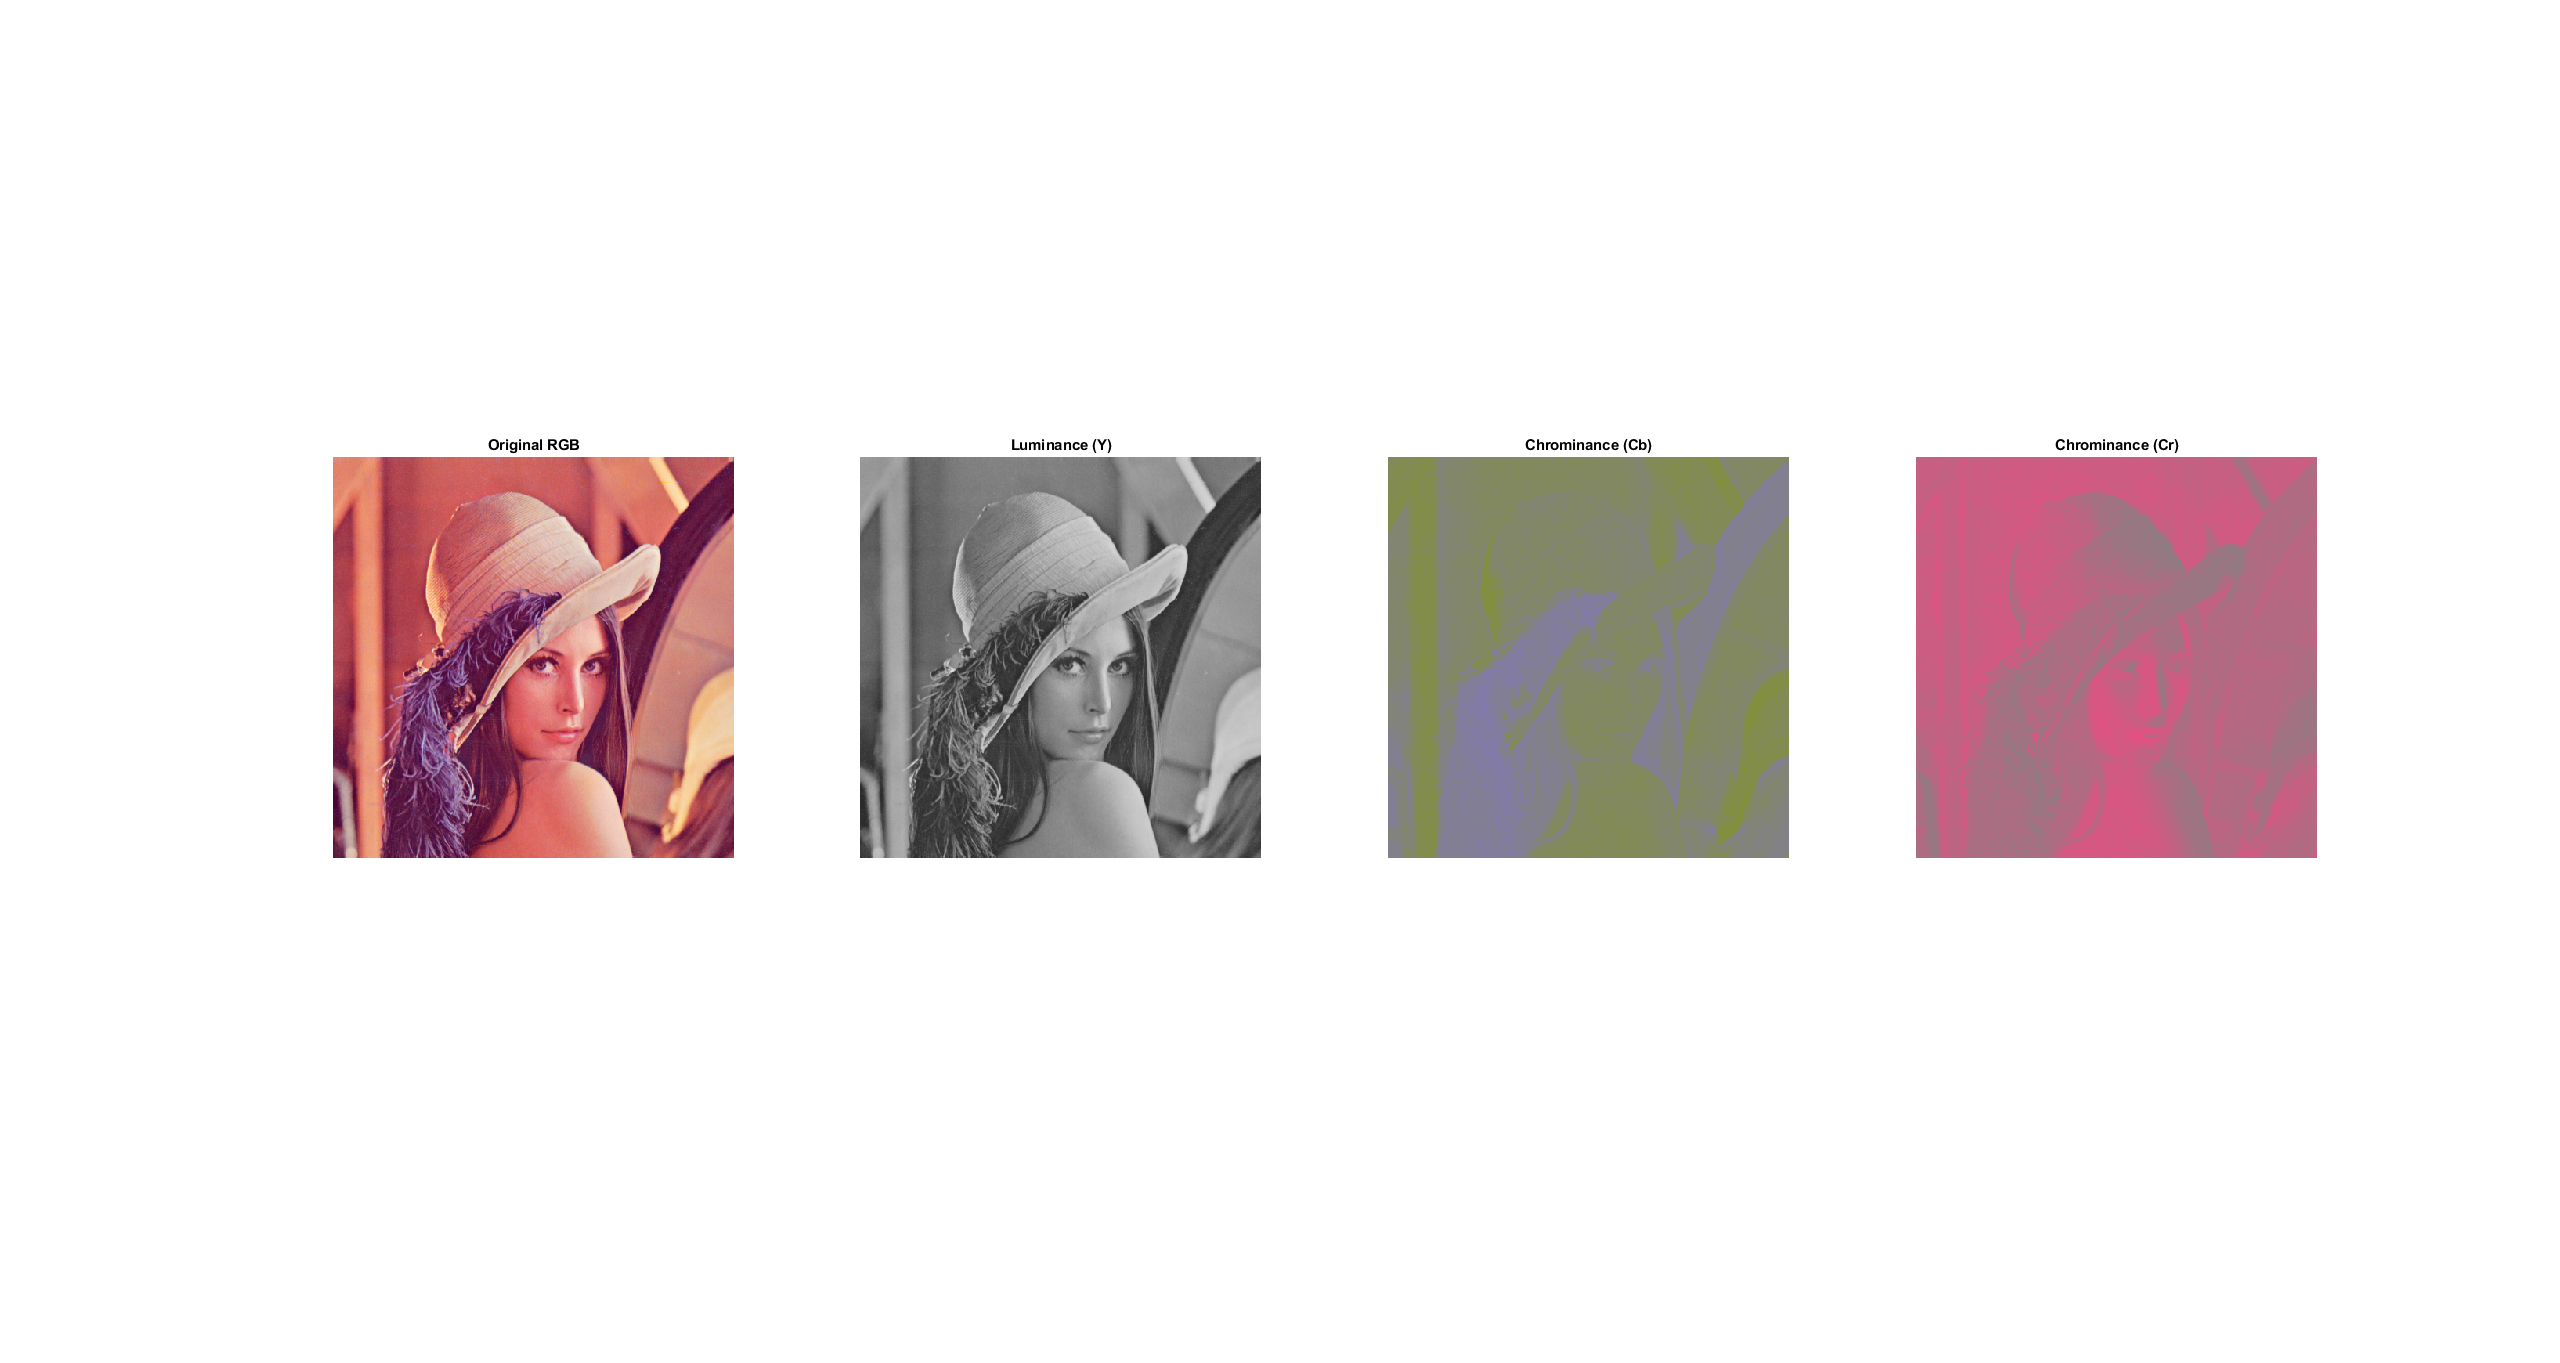
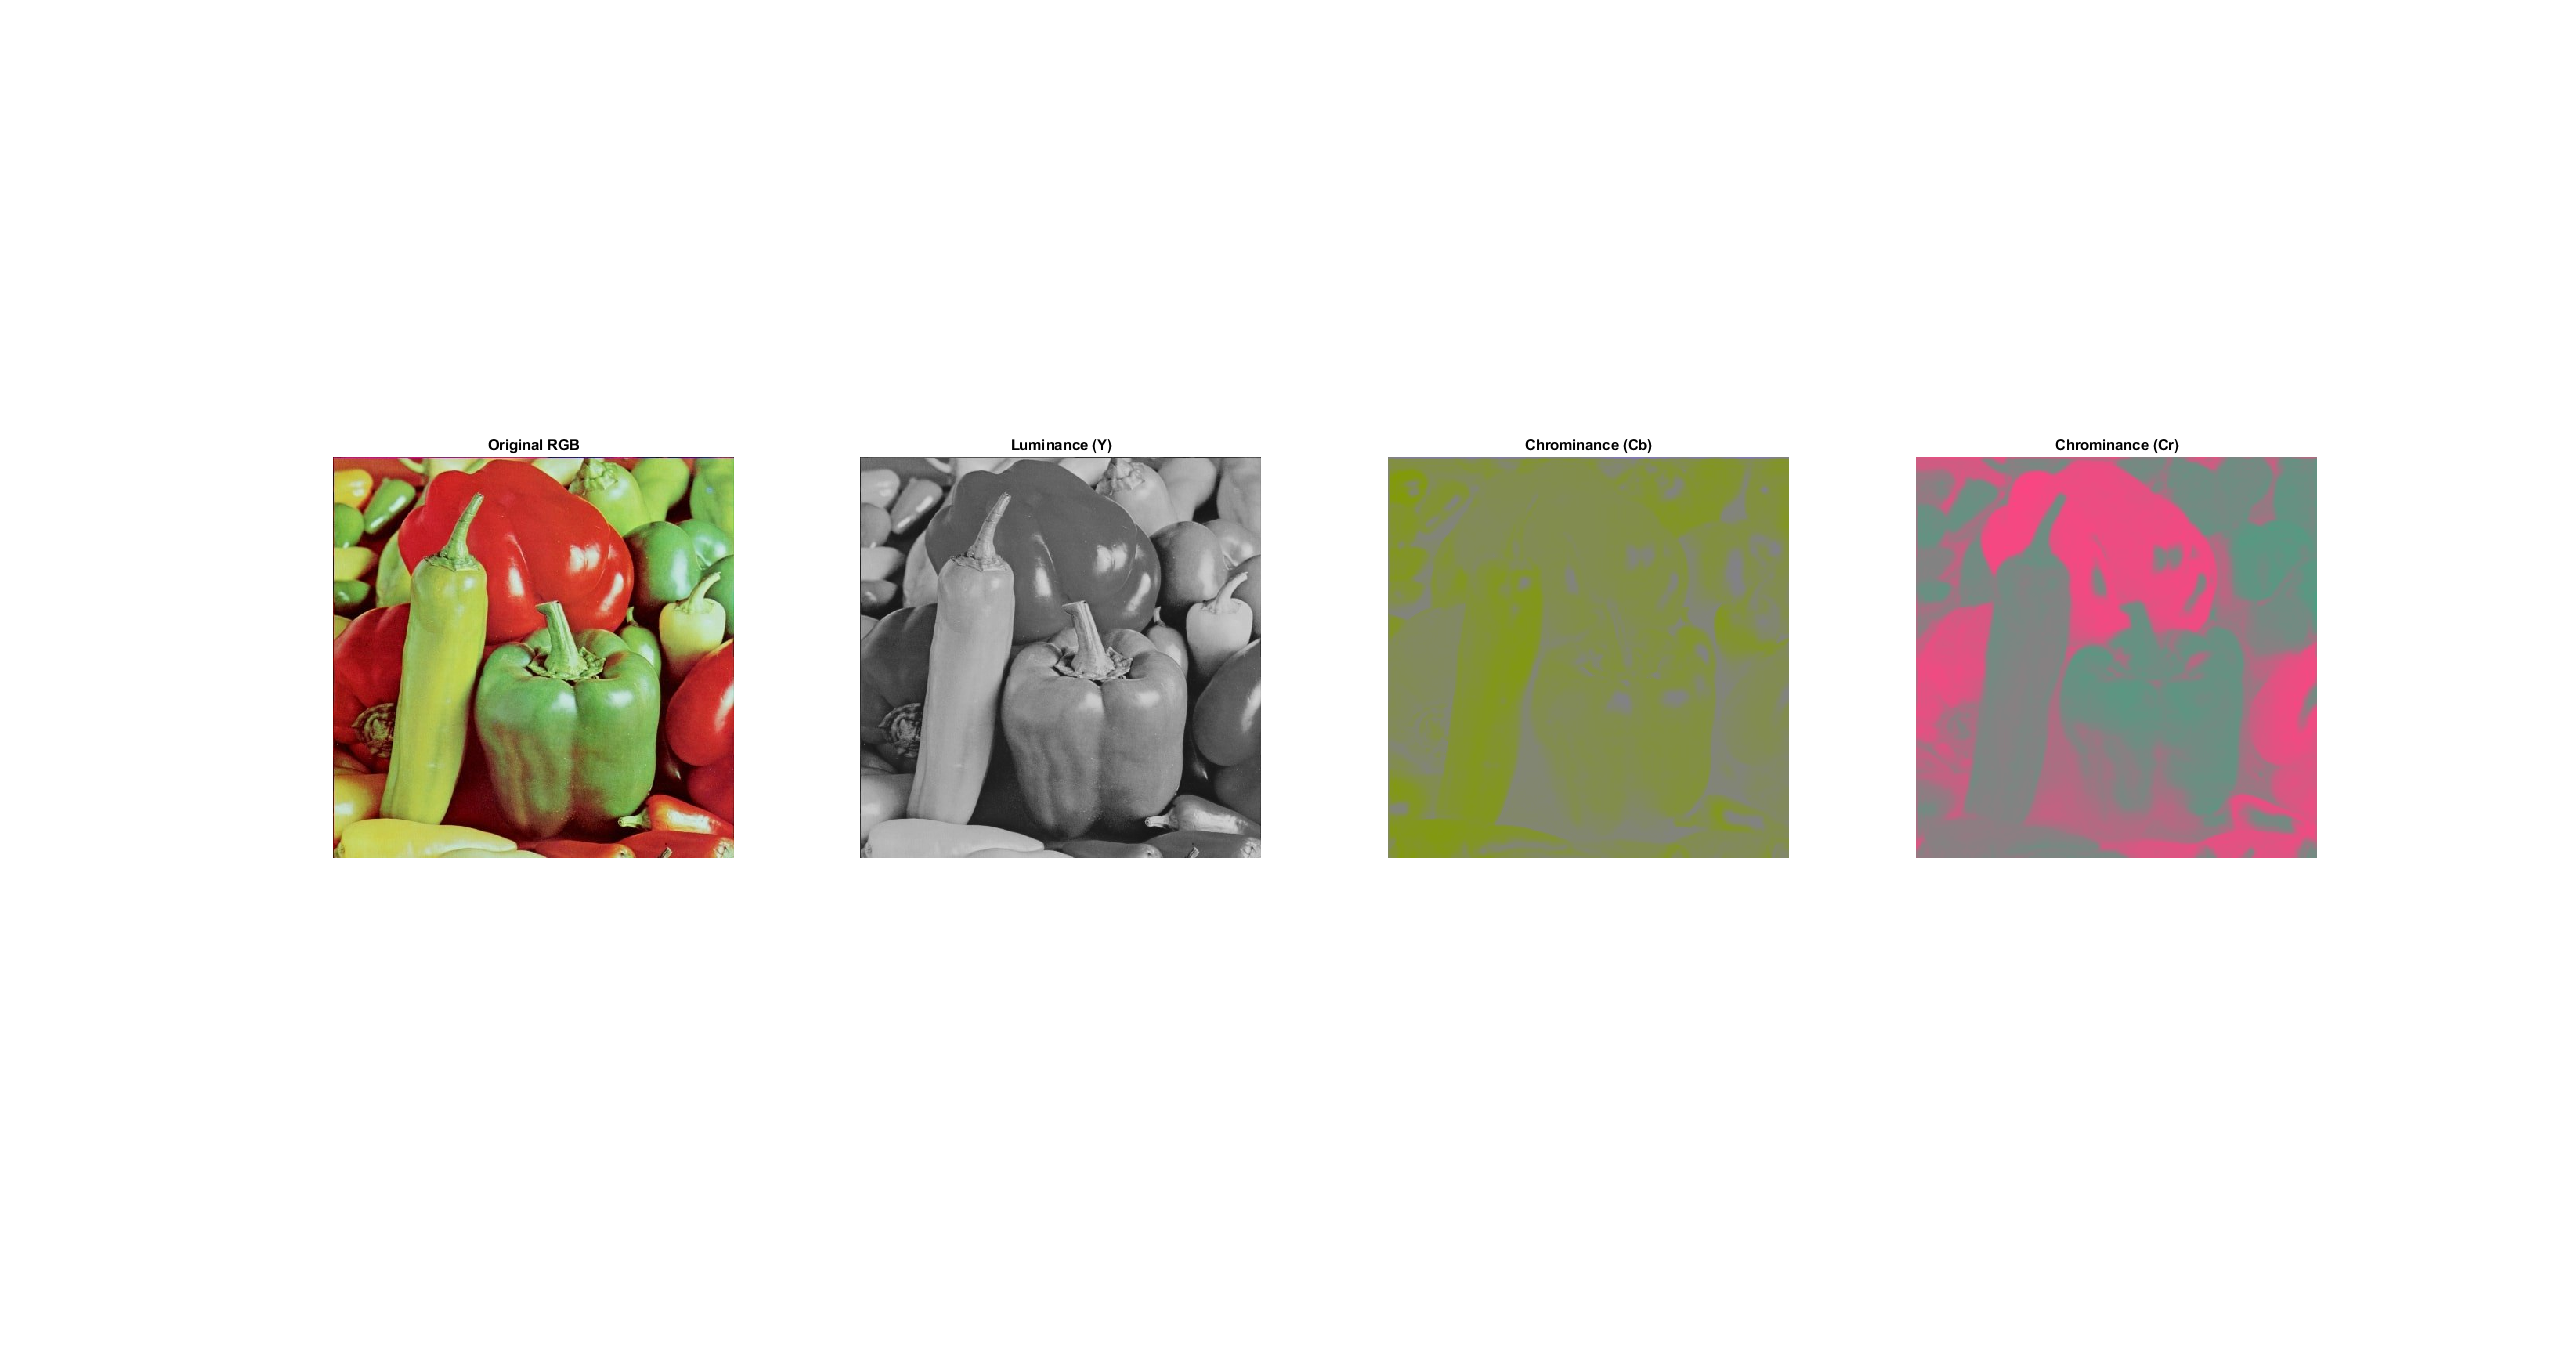
[+] - Adjusted all figures to use "Peppers" rather than "Lenna".
Figures were also adjusted to included a consistent log scale across the coefficients of all channels - not independently. This allows us to inspect the differences in coefficient values across the 3 channels.

Changed region(s): [[0.125, 0.3081, 0.5, 0.6471], [0.5312, 0.339, 0.7188, 0.6471], [0.75, 0.3081, 0.9062, 0.6471]]

diff --git a/ELEC3612_assignment.m b/ELEC3612_assignment.m
@@ -179,13 +179,14 @@ hold off;
 
 
 %% ==== STEP 3: Apply Discrete Cosine Transform (DCT) ==== %%
-
-% Applying DCT to each channel separately, before calculating a log-scaled
-% version for a heatmap on the figure
+% Apply the 2D-DCT to each 8x8 block for each channel (Y, Cb, Cr) and compute 
+% a log-scaled version of the DCT coefficients for visualisation. A common 
+% colour scale is then determined across all channels for consistent comparison.
 
 selected_block = 100;
 
 % ----- Luminance Channel (Y) -----
+% Compute the DCT for each 8x8 block in the Y channel
 num_blocks_Y = size(blocks_Y, 3);
 dct_blocks_Y = zeros(size(blocks_Y));
 for k = 1:num_blocks_Y
@@ -193,11 +194,12 @@ for k = 1:num_blocks_Y
 end
 selected_dct_block_Y = dct_blocks_Y(:,:,selected_block);
 
-% Prepare the coefficients for log-scaled heatmap (avoiding log(0) issues)
+% Compute the absolute DCT coefficients and take log-scale (avoid log(0))
 dct_display_Y = abs(selected_dct_block_Y) + 1e-5;
 log_dct_Y = log10(dct_display_Y);
 
 % ----- Chrominance Channel (Cb) -----
+% Compute the DCT for each 8x8 block in the Cb channel
 num_blocks_Cb = size(blocks_Cb, 3);
 dct_blocks_Cb = zeros(size(blocks_Cb));
 for k = 1:num_blocks_Cb
@@ -205,11 +207,12 @@ for k = 1:num_blocks_Cb
 end
 selected_dct_block_Cb = dct_blocks_Cb(:,:,selected_block);
 
-% Prepare the coefficients for log-scaled heatmap (avoiding log(0) issues)
+% Compute the log-scaled DCT coefficients for Cb
 dct_display_Cb = abs(selected_dct_block_Cb) + 1e-5;
 log_dct_Cb = log10(dct_display_Cb);
 
 % ----- Chrominance Channel (Cr) -----
+% Compute the DCT for each 8x8 block in the Cr channel
 num_blocks_Cr = size(blocks_Cr, 3);
 dct_blocks_Cr = zeros(size(blocks_Cr));
 for k = 1:num_blocks_Cr
@@ -217,11 +220,16 @@ for k = 1:num_blocks_Cr
 end
 selected_dct_block_Cr = dct_blocks_Cr(:,:,selected_block);
 
-% Prepare the coefficients for log-scaled heatmap (avoiding log(0) issues)
+% Compute the log-scaled DCT coefficients for Cr
 dct_display_Cr = abs(selected_dct_block_Cr) + 1e-5;
 log_dct_Cr = log10(dct_display_Cr);
 
-% ----- Display the heatmaps for Y, Cb, and Cr -----
+% ----- Compute a Common Colour Scale -----
+% Determine global min and max from all three channels for a unified colour scale
+global_min = min([min(log_dct_Y(:)), min(log_dct_Cb(:)), min(log_dct_Cr(:))]);
+global_max = max([max(log_dct_Y(:)), max(log_dct_Cb(:)), max(log_dct_Cr(:))]);
+
+% ----- Visualise the Heatmaps for Each Channel -----
 figure('Name', 'Step 3: DCT Coefficients for Y, Cb, and Cr');
 
 % Luminance (Y) heatmap
@@ -230,13 +238,10 @@ imagesc(log_dct_Y);
 title('DCT Coefficients (Y)');
 xlabel('Horizontal Frequency');
 ylabel('Vertical Frequency');
-
-% Overlay a grib to split into cells
-set(gca, 'XTick', 0.5:1:8.5, 'YTick', 0.5:1:8.5);
+set(gca, 'XTick', 0.5:1:8.5, 'YTick', 0.5:1:8.5); % Set grid ticks
 grid on;
-
-axis square; 
-
+axis square;                       % Ensure square aspect ratio
+clim([global_min, global_max]);   % Apply common colour scale
 hold on;
 for row = 1:8
     for col = 1:8
@@ -255,8 +260,8 @@ xlabel('Horizontal Frequency');
 ylabel('Vertical Frequency');
 set(gca, 'XTick', 0.5:1:8.5, 'YTick', 0.5:1:8.5);
 grid on;
-axis square; 
-
+axis square;
+clim([global_min, global_max]);
 hold on;
 for row = 1:8
     for col = 1:8
@@ -275,9 +280,9 @@ xlabel('Horizontal Frequency');
 ylabel('Vertical Frequency');
 set(gca, 'XTick', 0.5:1:8.5, 'YTick', 0.5:1:8.5);
 grid on;
-axis square; 
+axis square;
+clim([global_min, global_max]);
 hold on;
-
 for row = 1:8
     for col = 1:8
         text(col, row, sprintf('%.1f', selected_dct_block_Cr(row, col)), ...
@@ -366,7 +371,7 @@ quant_display_Cr = abs(selected_quantized_block_Cr) + 1e-5;
 log_quant_Cr = log10(quant_display_Cr);
 
 % -------------------------------
-% Determine a common colour scale
+% Determine a common colour scale across all 3 channels
 % -------------------------------
 global_min = min([min(log_quant_Y(:)), min(log_quant_Cb(:)), min(log_quant_Cr(:))]);
 global_max = max([max(log_quant_Y(:)), max(log_quant_Cb(:)), max(log_quant_Cr(:))]);
@@ -387,6 +392,7 @@ grid on;
 axis square;
 clim([global_min, global_max]);  % Set common colour scale
 hold on;
+
 for row = 1:8
     for col = 1:8
         text(col, row, sprintf('%.1f', selected_quantized_block_Y(row, col)), ...
@@ -407,6 +413,7 @@ grid on;
 axis square;
 clim([global_min, global_max]);  % Set common colour scale
 hold on;
+
 for row = 1:8
     for col = 1:8
         text(col, row, sprintf('%.1f', selected_quantized_block_Cb(row, col)), ...
